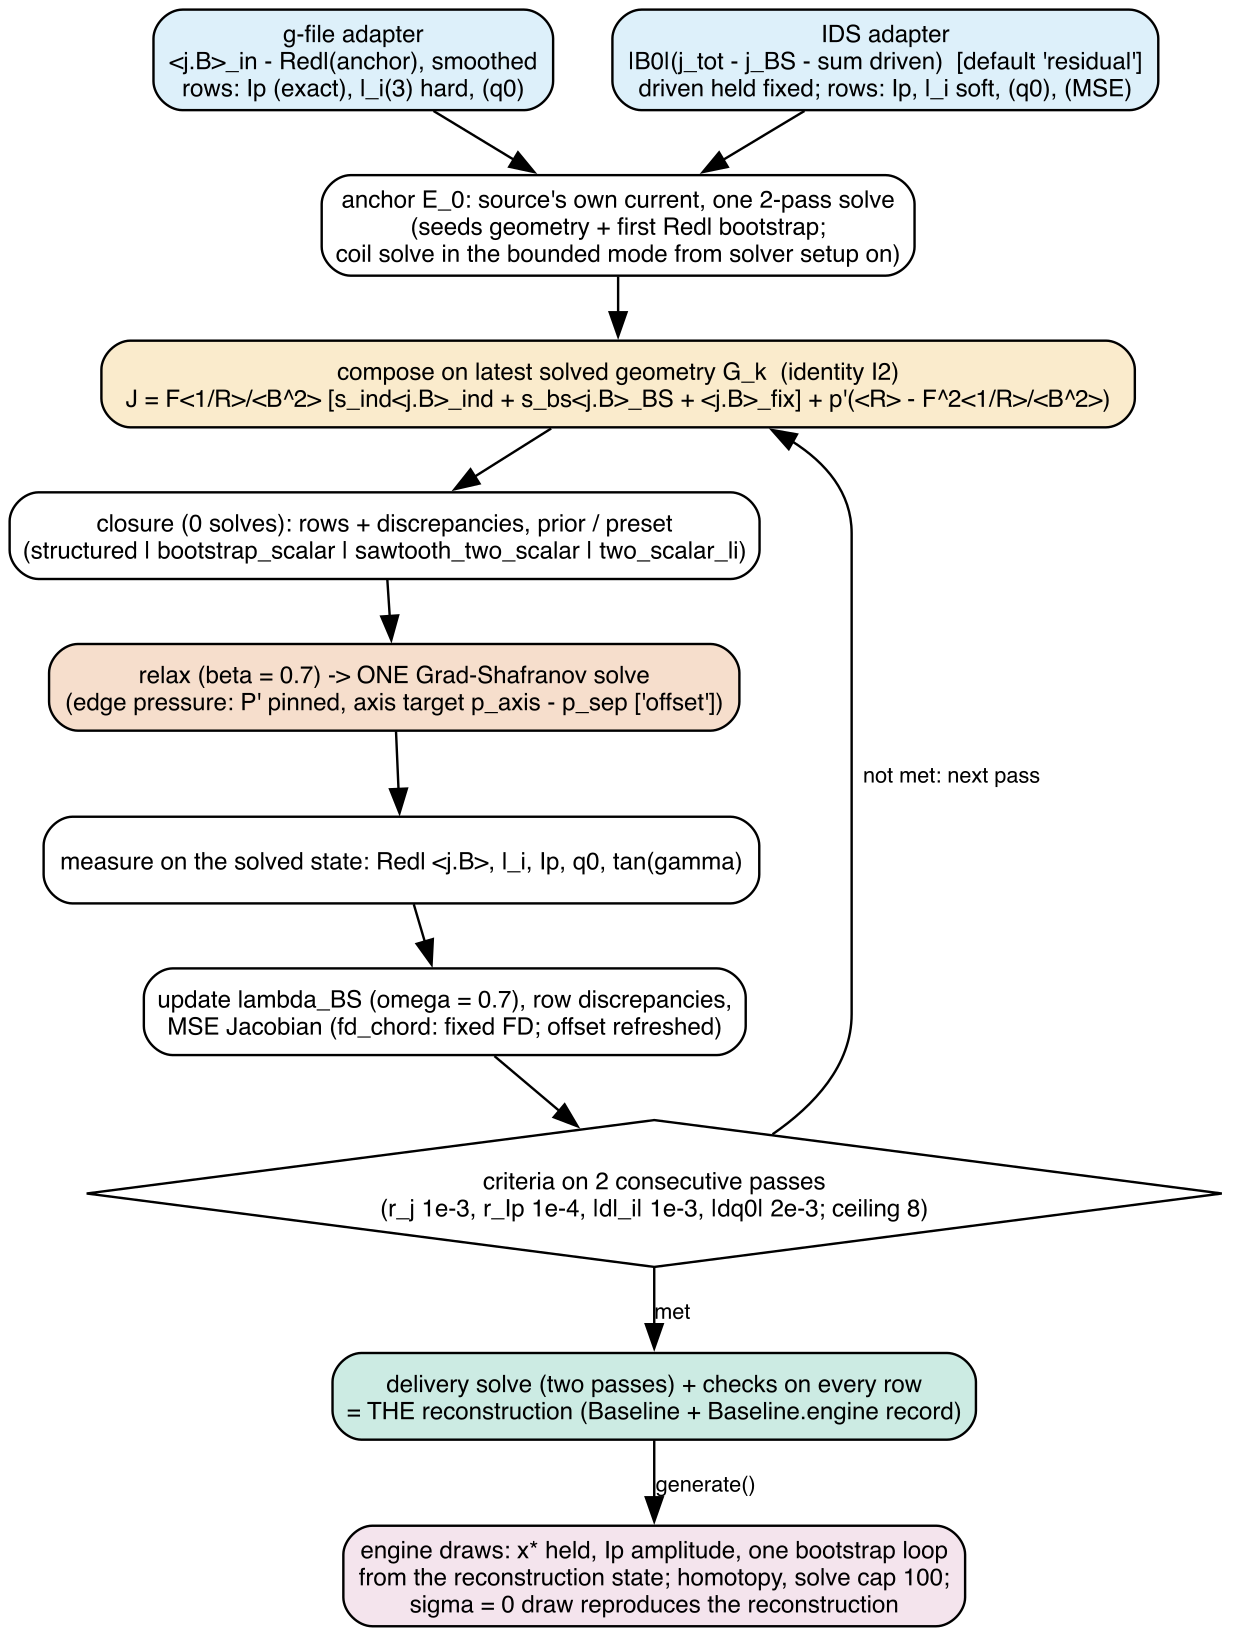
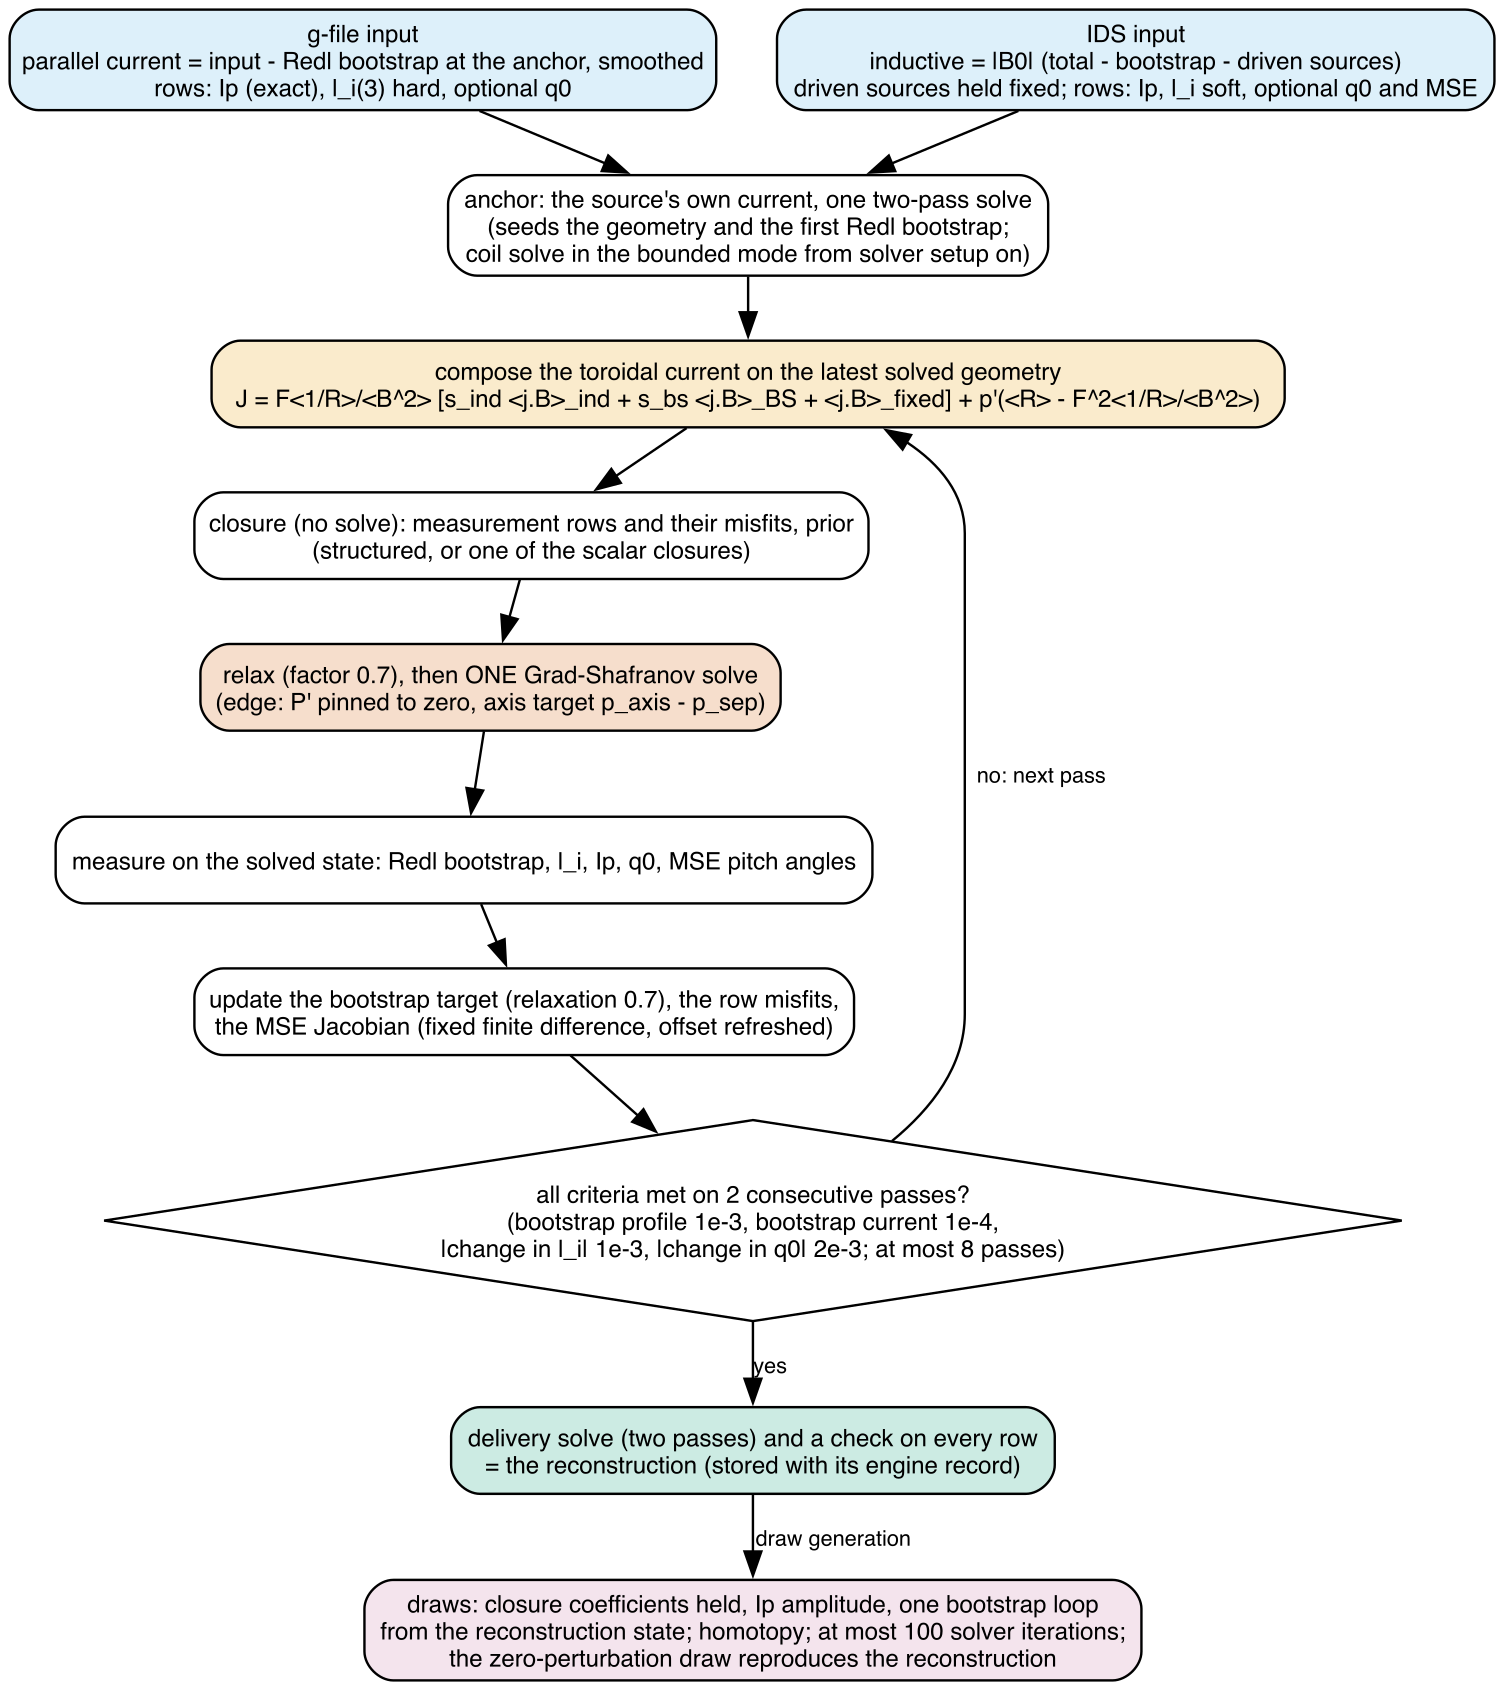
docs/figures/engine: plain-language labels; the PR-stack overview replaced by the 12-chapter map
For a single engine pull request reviewed as twelve chapters:
- engine_review_chapters.png (+ scripts/engine_review_chapters.dot): the
  twelve chapters in commit order, landing as one merge commit; no commit
  ids in the figure.  Replaces pr_stack_overview.png / .dot (a stack of
  branches that will not be opened).
- engine_architecture: code identifiers removed from the diagram (closure
  preset names, the Jacobian scheme name, x*, E_0, G_k, generate(), the
  record class) in favour of what each step does; same numbers.
- engine_sigma0_true_route: axis, legend and tick labels in words (residual
  over its tolerance; loop / archived; standard / Ip-renormalised route;
  |dq0|, |dq95|, relative flux-range change).  Re-plotted from the
  bab3902 numbers stored in that run's figure_numbers.json (new fallback in
  make_draw_figures.fig_sigma0 when the raw records are elsewhere); the
  caption text the script writes is unchanged, i.e. the same numbers.
- engine_draw_cost: legend and axis in words; its plot split into
  fig_cost() so it needs only the batches' meta files; same data
  (bab3902 batch), same caption.
- make_engine_solver_figures.fig_sigma0_legacy relabelled the same way
  (that figure is not in this folder; used by the review document).
No data, no solver run.

Changed region(s): [[0.0, 0.0, 1.0, 0.9963], [0.6472, 0.4359, 0.8321, 0.4982], [0.6472, 0.6538, 0.678, 0.685]]

diff --git a/docs/figures/engine/scripts/make_draw_figures.py b/docs/figures/engine/scripts/make_draw_figures.py
@@ -166,10 +166,19 @@ def fig_draws(rows, sg="0.05"):
          f"subset, with the reconstruction. 'In spec' = generate()'s flag: coil drift within "
          f"+/-2 % AND l_i within the engine's +/-5 % band. Yield at 0.05: {ytxt('0.05')}. "
          f"Same batch at the UncertaintyConfig default 0.10: {ytxt('0.10')}.")
-    # ---- cost
+
+
+def fig_cost(sg="0.05"):
+    """Solves per archived draw by stage (needs only the batches' meta files)."""
+    srcs = [s for s in ("recon", "imas") if load(f"draws_{s}_{sg}_meta.json")]
+    if not srcs:
+        print("no draw meta")
+        return
     fig, ax = plt.subplots(1, len(srcs), figsize=(6.5 * len(srcs), 3.9), squeeze=False)
     stages = [("loop", W["blue"]), ("homotopy", W["orange"]),
               ("post_homotopy", W["verm"]), ("filters", W["green"])]
+    stage_label = {"loop": "bootstrap-loop solves", "homotopy": "homotopy solves",
+                   "post_homotopy": "post-homotopy solves", "filters": "filter solves"}
     cost = {}
     for i, s in enumerate(srcs):
         m = load(f"draws_{s}_{sg}_meta.json")
@@ -179,7 +188,7 @@ def fig_draws(rows, sg="0.05"):
         for st, c in stages:
             v = np.array([((r.get("cost") or {}).get(st) or {}).get("solves") or 0
                           for r in rws], float)
-            a.bar(np.arange(len(rws)), v, bottom=bottom, color=c, label=f"{st} solves")
+            a.bar(np.arange(len(rws)), v, bottom=bottom, color=c, label=stage_label[st])
             bottom += v
         ph = [((r.get("cost") or {}).get("post_homotopy") or {}).get("passes") or 0
               for r in rws]
@@ -190,7 +199,7 @@ def fig_draws(rows, sg="0.05"):
         a.set_ylim(0, 1.75 * max(bottom.max() if bottom.size else 1, 1))
         a2.set_ylabel("post-homotopy passes [-]")
         a2.grid(False)
-        a.set(xlabel="archived draw index", ylabel="GS solves per draw [-]",
+        a.set(xlabel="archived draw index", ylabel="Grad-Shafranov solves per draw [-]",
               title=f"({'ab'[i]}) {SRC[s]}: solves by stage")
         h1, l1 = a.get_legend_handles_labels()
         h2, l2 = a2.get_legend_handles_labels()
@@ -215,24 +224,18 @@ def fig_sigma0():
             d = load(f"sigma0_{s}_{e}.json")
             if d and "record" in d:
                 recs[(s, e)] = d
-    if not recs:
+    stored = load("figure_numbers.json") if not recs else None
+    if not recs and not (stored and "engine_sigma0_true_route" in stored):
         print("no sigma0 data")
         return
-    fig, ax = plt.subplots(1, 2, figsize=(12.5, 4.2))
-    labels, vals, cols = [], [], []
+    if not recs:
+        # re-plot from the numbers a previous run stored (figure_numbers.json):
+        # the same values, so the same bars
+        return _plot_sigma0(stored["engine_sigma0_true_route"])
     summ = {}
     for (s, e), d in recs.items():
         r = d["record"]
         if e == "unified":
-            t = r["tolerances"]
-            for stg in ("loop", "archived"):
-                z = (r.get("stages") or {}).get(stg) or {}
-                if "r_j" not in z:
-                    continue
-                labels.append(f"{SRC[s]} engine\n{stg}")
-                vals.append([abs(z["r_j"]) / t["rtol_j"], abs(z["r_I"]) / t["rtol_Ip"],
-                             abs(z["dl_i"]) / t["tol_li"]])
-                cols.append(W["blue"] if stg == "loop" else W["sky"])
             summ[f"{s}_engine"] = dict(passed=r.get("passed"), amplitude=r.get("amplitude"),
                                        r_j=r.get("r_j"), r_I=r.get("r_I"), dl_i=r.get("dl_i"),
                                        dq0=r.get("dq0"), dq95=r.get("dq95"),
@@ -243,25 +246,46 @@ def fig_sigma0():
         else:
             dr = r.get("draw_route") or {}
             routes = dr.get("routes") or {}
-            t0 = dr.get("tolerances") or {}
-            tol = dict(rtol_j=t0.get("rtol_j", t0.get("jbs_rtol_j", 1e-3)),
-                       rtol_Ip=t0.get("rtol_Ip", t0.get("jbs_rtol_Ip", 1e-4)),
-                       tol_li=t0.get("tol_li", t0.get("jbs_tol_li", 1e-3)))
-            for rn, z in routes.items():
-                if not isinstance(z, dict) or "r_j" not in z:
-                    continue
-                dli = z.get("dl_i_vs_l_i_target")
-                labels.append(f"{SRC[s]} legacy\n{rn}")
-                vals.append([abs(z["r_j"]) / tol["rtol_j"], abs(z["r_I"]) / tol["rtol_Ip"],
-                             abs(dli or 0.0) / tol["tol_li"]])
-                cols.append(W["verm"])
             summ[f"{s}_legacy"] = dict(passed=r.get("passed"),
                                        routes={k: {q: v.get(q) for q in (
                                            "r_j", "r_I", "dl_i_vs_l_i_target",
                                            "passed_draw_route")}
                                                for k, v in routes.items()
                                                if isinstance(v, dict)})
-    names = ["r_j / rtol_j", "r_I / rtol_Ip", "|dl_i| / tol_li"]
+    return _plot_sigma0(summ)
+
+
+#: the loop's own tolerances (GenerationConfig defaults: jbs_rtol_j,
+#: jbs_rtol_Ip, jbs_tol_li), the bars every stage is judged at
+_TOL = dict(rtol_j=1e-3, rtol_Ip=1e-4, tol_li=1e-3)
+_ROUTE = {"standard": "standard", "ip_renorm": "Ip renorm."}
+
+
+def _plot_sigma0(summ):
+    """Panels (a) residual over tolerance per route and stage, (b) the engine's
+    archived-state change, from the summary of the checks (plain-language labels)."""
+    t = _TOL
+    labels, vals = [], []
+    for k, v in summ.items():
+        s = k.split("_")[0]
+        if k.endswith("_engine"):
+            lp = v.get("loop") or {}
+            for stg, z in (("loop", lp), ("archived", v)):
+                if z.get("r_j") is None:
+                    continue
+                labels.append(f"{SRC[s]}\nengine\n{stg}")
+                vals.append([abs(z["r_j"]) / t["rtol_j"], abs(z["r_I"]) / t["rtol_Ip"],
+                             abs(z["dl_i"]) / t["tol_li"]])
+        else:
+            for rn, z in (v.get("routes") or {}).items():
+                if z.get("r_j") is None:
+                    continue
+                labels.append(f"{SRC[s]}\nlegacy\n{_ROUTE.get(rn, rn)}")
+                vals.append([abs(z["r_j"]) / t["rtol_j"], abs(z["r_I"]) / t["rtol_Ip"],
+                             abs(z.get("dl_i_vs_l_i_target") or 0.0) / t["tol_li"]])
+    fig, ax = plt.subplots(1, 2, figsize=(12.5, 4.4))
+    names = ["bootstrap profile residual", "bootstrap current residual",
+             r"|$\Delta l_i$|"]
     n = len(labels)
     wdt = 0.8 / 3
     for j in range(3):
@@ -272,22 +296,24 @@ def fig_sigma0():
     ax[0].set_ylim(1e-4, 10)
     ax[0].set_xticks(range(n))
     ax[0].set_xticklabels(labels, fontsize=7)
-    ax[0].set(ylabel="residual / tolerance [-]",
-              title="(a) sigma = 0 through the true draw route, every route and stage")
+    ax[0].set(ylabel="residual / its tolerance [-]",
+              title="(a) zero-perturbation draw: every route and stage")
     ax[0].legend(fontsize=7, ncol=2)
     a = ax[1]
     eng = [(k, v) for k, v in summ.items() if k.endswith("_engine")]
     for i, (k, v) in enumerate(eng):
-        for j, (q, c) in enumerate((("dq0", W["sky"]), ("dq95", W["orange"]),
-                                    ("flux_range_rel", W["pink"]))):
+        for j, (q, c, ql) in enumerate((("dq0", W["sky"], r"|$\Delta q_0$|"),
+                                        ("dq95", W["orange"], r"|$\Delta q_{95}$|"),
+                                        ("flux_range_rel", W["pink"],
+                                         "|relative change of the flux range|"))):
             x = v.get(q)
             a.bar(i + (j - 1) * 0.25, abs(x) if x is not None else 0.0, 0.25, color=c,
-                  label=q if i == 0 else None)
+                  label=ql if i == 0 else None)
     a.set_yscale("log")
     a.set_xticks(range(len(eng)))
-    a.set_xticklabels([k.replace("_", " ") for k, _ in eng])
+    a.set_xticklabels([f"{SRC[k.split('_')[0]]}, engine" for k, _ in eng])
     a.set(ylabel="absolute / relative change [-]",
-          title="(b) engine archived state: q0, q95, flux range vs reconstruction")
+          title="(b) engine, archived state against the reconstruction")
     a.legend(fontsize=7)
     NUM["engine_sigma0_true_route"] = summ
     worst = max(max(v) for v in vals)
@@ -379,7 +405,7 @@ def fig_revip():
 
 
 rows = yields()
-for f in (lambda: fig_draws(rows), fig_sigma0, fig_revip):
+for f in (lambda: fig_draws(rows), fig_cost, fig_sigma0, fig_revip):
     try:
         f()
     except Exception:

diff --git a/docs/figures/engine/scripts/make_engine_solver_figures.py b/docs/figures/engine/scripts/make_engine_solver_figures.py
@@ -386,29 +386,34 @@ def fig_sigma0_legacy(_unused=None):
     for i, (lab, f0, dr) in enumerate(blocks):
         a = ax[0, i]
         names, vals, tols = [], [], []
+        qname = {"r_j": "bootstrap\nprofile", "r_I": "bootstrap\ncurrent",
+                 "dl": "$|\\Delta l_i|$"}
+        rname = {"standard": "standard\nroute", "ip_renorm": "Ip renorm.\nroute"}
         for k, t in (("r_j_vs_baseline", "r_j"), ("r_I_vs_baseline", "r_I"),
                      ("dl_i_vs_baseline", "dl")):
             if f0.get(k) is not None:
-                names.append(f"recon check\n{k.split('_vs')[0]}")
+                names.append(f"check vs\nbaseline:\n{qname[t]}")
                 vals.append(abs(float(f0[k])))
                 tols.append(tol[t])
         for route, rr in (dr.get("routes") or {}).items():
             for k, t in (("r_j", "r_j"), ("r_I", "r_I"), ("dl_i_vs_delivered", "dl")):
                 if rr.get(k) is not None:
-                    names.append(f"{route}\n{k}")
+                    names.append(f"{rname.get(route, route)}:\n{qname[t]}")
                     vals.append(abs(float(rr[k])))
                     tols.append(tol[t])
         x = np.arange(len(vals))
-        a.bar(x, np.maximum(vals, 1e-16), color=[W["blue"] if n.startswith("recon") else W["verm"]
+        a.bar(x, np.maximum(vals, 1e-16), color=[W["blue"] if n.startswith("check") else W["verm"]
                                                  for n in names])
         for xi, t in zip(x, tols):
             a.plot([xi - 0.4, xi + 0.4], [t, t], "k--", lw=1.2)
         a.set_yscale("log")
         a.set_xticks(x)
         a.set_xticklabels(names, fontsize=6.5, rotation=0)
-        a.set(ylabel="|sigma=0 draw - reconstruction| [-]",
-              title=f"({'ab'[i]}) {lab}, legacy path, loop ON "
-                    f"(passed={f0.get('passed')}, draw route passed={dr.get('passed_draw_route')})")
+        _yn = {True: "yes", False: "NO", None: "n/a"}
+        a.set(ylabel="|zero-perturbation draw - reconstruction| [-]",
+              title=f"({'ab'[i]}) {lab}, legacy path, bootstrap loop on\n"
+                    f"(check passed: {_yn.get(f0.get('passed'))}; draw routes passed: "
+                    f"{_yn.get(dr.get('passed_draw_route'))})")
         summ[lab] = dict(recon_check=f0, draw_route=dr)
     SUMMARY["sigma0_draw_route_vs_reconstruction"] = summ
     save(fig, "sigma0_draw_route_vs_reconstruction",

diff --git a/docs/figures/engine/CAPTIONS.md b/docs/figures/engine/CAPTIONS.md
@@ -9,8 +9,9 @@ No experimental data. PNG at 130 dpi. Provenance is stated per figure:
 
 ## Diagrams
 
-**`pr_stack_overview.png`** — Diagram, no data: the pull-request stack
-(thirteen slices on top of `main`) and the independent PRs that land first.
+**`engine_review_chapters.png`** — Diagram, no data: the twelve review
+chapters of the unified-engine pull request, in commit order, landing on
+`main` as one merge commit.
 
 **`engine_architecture.png`** — Diagram, no data: one pass of the unified
 reconstruction engine as implemented, from the two input adapters through
@@ -62,7 +63,7 @@ inductive-shape σ of 0.05: median and 16–84 % bands of the archived draws
 and of the in-spec subset (coil drift within ±2 % and l_i within the
 engine's ±5 % band), with the reconstruction. Yield at σ = 0.05: g-file 12 archived of 12 attempts, 2 in spec; IDS 11 of 12, 6 in spec (at the default σ = 0.10: g-file 9 of 12, 2 in spec; IDS 7 of 12, 2 in spec; every rejection a capped first homotopy stage).
 
-**`engine_draw_cost.png`** — Synthetic examples, real solver. GS solves per
+**`engine_draw_cost.png`** — Synthetic examples, real solver. Grad-Shafranov solves per
 archived engine draw by stage (bars) and the post-homotopy passes against
 the ceiling of 6 (diamonds), for the σ = 0.05 batches. Median wall time per archived draw 115 s (g-file) and 97 s (IDS); at most 4 post-homotopy passes.
 
@@ -129,7 +130,7 @@ machine with room for them; only small JSON is read by the plotting scripts.
 
 * Diagrams: `dot -Tsvg scripts/<name>.dot -o <name>.svg && rsvg-convert -z
   1.8056 -b white <name>.svg -o <name>.png` for `engine_architecture` and
-  `pr_stack_overview`.
+  `engine_review_chapters`.
 * Solver-free: `PYTHONPATH=.:tests python
   docs/figures/engine/scripts/make_solver_free_figures.py . <out>` (loop
   kernel, IDS inductive split, edge-pressure bookkeeping; it also writes three
